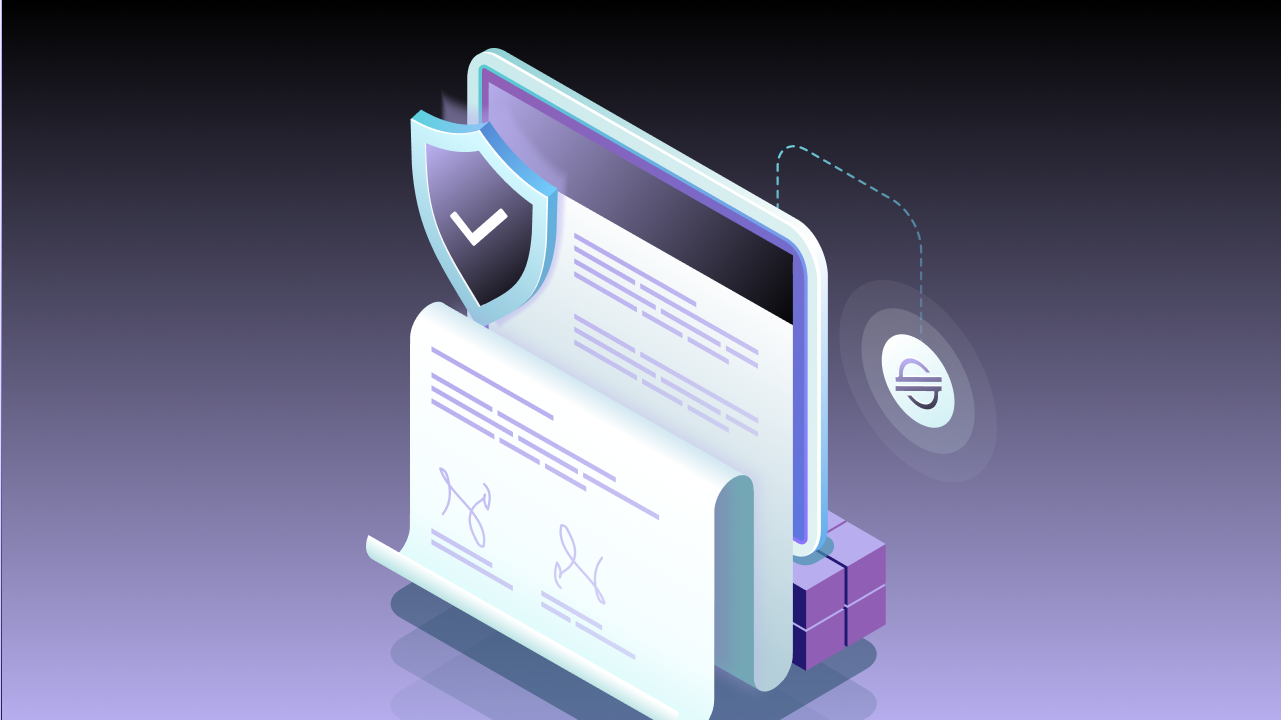
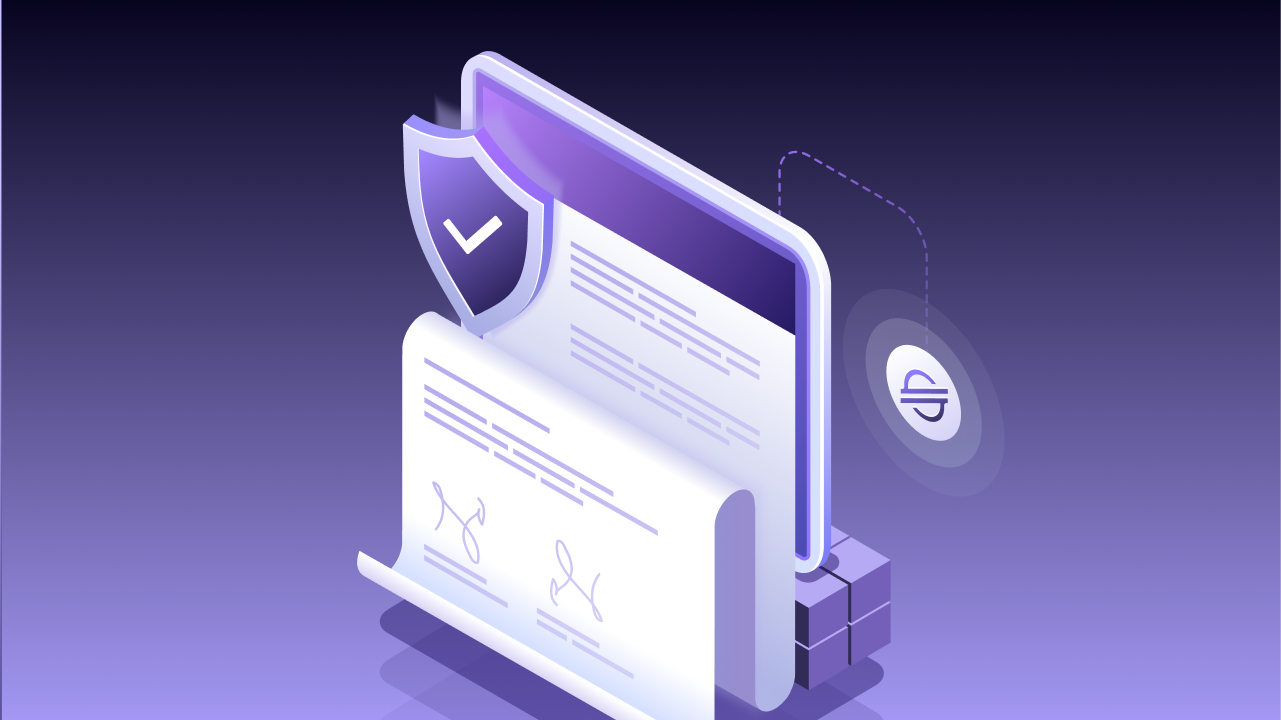
Modify theme color "Soroban Integration Testing Best Practices (JS)"

diff --git a/articles/Soroban integration testing best practices/README.md b/articles/Soroban integration testing best practices/README.md
@@ -14,7 +14,7 @@ tags:
     "Integration Testing",
   ]
 landingPages: ["Blockchain-Onchain infra"]
-heroColor: "#B5ADED"
+heroColor: "#886FD0"
 thumb: "./thumb.png"
 thumb_h: "./thumb_h.png"
 intro: "This article explores our experiences and practices for writing integration tests for smart contracts on Soroban, with the aim of providing practical assistance to developers currently working on Stellar contract development."
